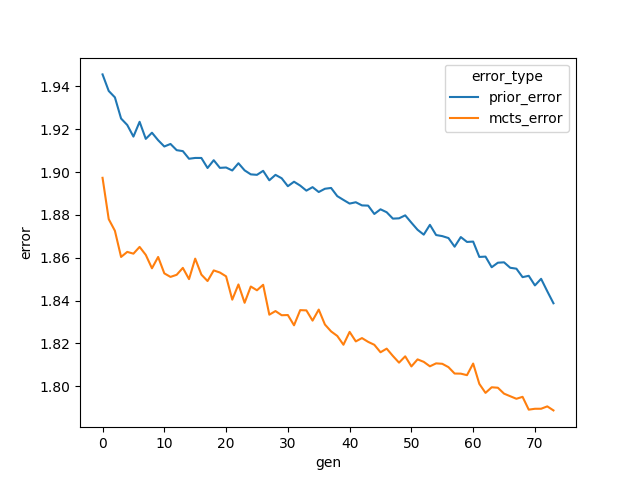
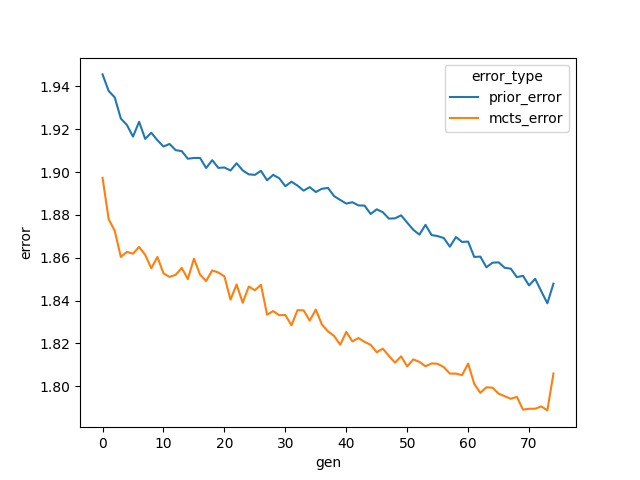
able to remake evaluations

diff --git a/py_src/DB/db.py b/py_src/DB/db.py
@@ -32,7 +32,7 @@ def tensor_from_blob(blob) -> torch.Tensor:
 
 class DB:
 
-    def connect(self):
+    def __connect(self):
 
         return sqlite3.connect('./db.db')
 
@@ -46,7 +46,7 @@ class DB:
         self.query(query, True)
 
     def query(self, query, no_data=False):
-        conn = self.connect()
+        conn = self.__connect()
         cursor = conn.execute(query)
 
         res = None
@@ -58,6 +58,28 @@ class DB:
         conn.close()
 
         return res
+
+    def generation_id(self, gen):
+        query = f"""
+            select id
+            from generations
+            where generation_num = {gen}
+        """
+
+        query_res = self.query(query)
+        try:
+            return query_res[0][0]
+        except:
+            print("Query result:")
+            print(query_res)
+            raise Exception(f"Could not find generation {gen}")
+
+    def delete_eval(self, gen):
+        gen_id = self.generation_id(gen)
+        query = f"""
+            delete from ground_truth_evals where generation_id = {gen_id}
+        """
+        self.query(query, True)
 
     def evals(self, gen: int):
         query = f"""
@@ -198,7 +220,7 @@ class DB:
         return tuple(map(torch.tensor, result))
 
 
-    def generation_nums(self):
+    def generation_nums(self) -> list[int]:
         query = """
             select generation_num from generations
         """

diff --git a/py_src/re_eval_run.py b/py_src/re_eval_run.py
@@ -1,0 +1,44 @@
+from DB import DB
+from sys import argv
+from utils import set_run
+import os
+from pathlib import Path
+from tqdm import tqdm
+
+def main():
+    
+    if len(argv) < 2:
+        print("Usage: python3 train.py <run_name>")
+
+    game_name = "connect4"
+    run_name = argv[1]
+
+    cpp_src_path = Path(os.getcwd()).parent / 'cpp_src'
+
+    set_run(run_name, game_name)
+
+    run_path = os.getcwd()
+
+    db = DB()
+
+    generations = db.generation_nums()
+
+    tq = tqdm(generations)
+
+    for gen in tq:
+
+        tq.desc = f"Deleting"
+        os.chdir(run_path)
+        db.delete_eval(gen)
+
+        os.chdir(cpp_src_path)
+        tq.desc = f"Evaluating"
+        ret_code = os.system(f"./eval_agent {run_name} {gen} > /dev/null")
+        if ret_code != 0:
+            print("Error in evaluation")
+            return
+    
+
+if __name__ == "__main__":
+    main()
+

diff --git a/cpp_src/eval_agent.cpp b/cpp_src/eval_agent.cpp
@@ -11,9 +11,9 @@
 int main(int argc, char *argv[])
 {
 
-    if(argc != 2){
+    if(argc < 2){
         std::cout << "Usage: ./eval_agent <run_name>" << std::endl;
-        return 0;
+        return 1;
     }
 
     std::string run_name = argv[1];
@@ -21,6 +21,11 @@ int main(int argc, char *argv[])
     std::string game_name = "connect4";
 
     std::string run_path = "../vault/" + game_name + '/' + run_name;
+
+    int generation = -1;
+    if(argc == 3){
+        generation = atoi(argv[2]);
+    }
 
     if(!utils::dir_exists(run_path)) {
         std::cout << "Run " << run_name << " does not exist." << std::endl;
@@ -43,7 +48,7 @@ int main(int argc, char *argv[])
     // initialize config
     config::initialize();
 
-    sim::eval_targets("../../../db/test_data.json", -1);
+    sim::eval_targets("../../../db/test_data.json", generation);
 
     return 0;
 }

diff --git a/cpp_src/DB/db.cpp b/cpp_src/DB/db.cpp
@@ -1,4 +1,5 @@
 #include "./db.h"
+#include <stdexcept>
 #include <torch/torch.h>
 #include <istream>
 #include "../config/config.h"
@@ -206,9 +207,9 @@ namespace db {
 
         if( rc ) {
             fprintf(stderr, "Can't open database: %s\n", sqlite3_errmsg(db));
-            exit(0);
+            throw std::runtime_error("Can't open database");
         } else {
-            fprintf(stderr, "Opened database successfully\n");
+            fprintf(stdout, "Opened database successfully\n");
         }
 
         // sqlite3_close(db);

diff --git a/md_src/stodufundur_29_mars.md b/md_src/stodufundur_29_mars.md
@@ -1,0 +1,56 @@
+
+
+
+
+# What need
+
+- AlphaZero review
+
+- Describe how we measure performance of algorithm with alpha-beta
+    - How policy error is measured
+    - How value error is measured
+
+- Default run
+    - plot progress, and report errors
+    - report total playouts performed
+    - plot performance as a function of total playouts
+
+- Mention credit assignment problem
+
+- Motivation for endgame playouts
+    - In the beginning of training, target evaluation is useless
+    - Because network cannot evaluate, policy target is also useless
+
+
+- Describe how we analyze training data eval target quality
+
+- Show the evaluations for the default run, showing that target is better towards the end of the game
+    - Also show how unstable the quality is in the default run
+
+- Describe endgame playouts, and how it capitalizes on this
+
+- Show how it performs
+    - Show performance as a function
+        - generations
+        - total playouts
+    - Show how the quality of the training data improves towards the start of the game.
+    - Show how steadily the performance improves vs the default run.
+
+- Do in depth analysis of the zig-zag-pattern. Why does it happen?
+    - Check out the evaluation of an average position. If it is much more likely to be a win, then it makes sense.
+
+- Plan going forward
+    - Run experiemts longer
+    - analyze data more
+    - Write paper
+    - get $$
+
+- Change is technologies
+    - Change database to Sqlite3
+    - Move training data to BSON
+    - No Azure cloud, just local machine
+
+- Risk analysis `>:(`
+
+- Working hour analysis `>:(`
+
